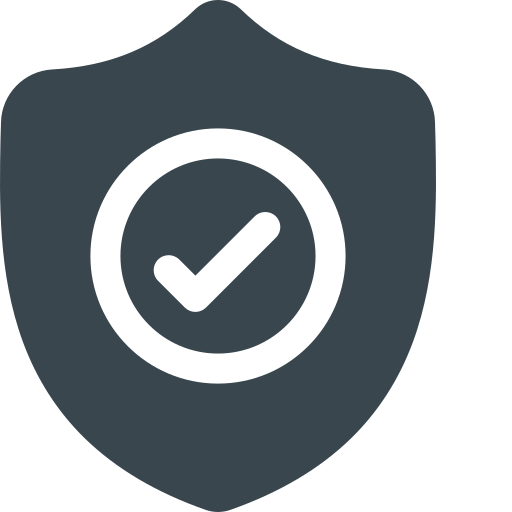
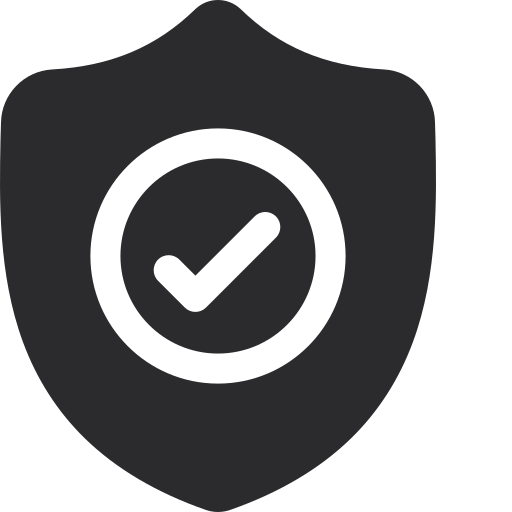
goals images

diff --git a/index.html b/index.html
@@ -113,32 +113,32 @@
 
                     <div style="display:flex">
                         <img  src="images/goals/data_collection.png" alt="" style="width:4em; height: 4em; margin-right: 2em; margin-top: 0.5em">
-                        <h2 style=" color: #39464e;font-size: 1.75rem">Data Collection and <br> Integration</h2>
+                        <h2 style=" color: #2b2b2e;font-size: 1.75rem">Data Collection and <br> Integration</h2>
                     </div>
                     <p style=" margin-bottom: 50px; margin-left: 6rem">Automated collection and integration of information on rare diseases from various sources.</p>
 
                     <div style="display:flex">
                         <img  src="images/goals/web_interface.png" alt="" style="width:4em; height: 4em; margin-right: 2em; margin-top: 0.5em">
-                        <h2 style=" color: #39464e;font-size: 1.75rem"> Web Interface for <br> Search</h2>
+                        <h2 style=" color: #2b2b2e;font-size: 1.75rem"> Web Interface for <br> Search</h2>
                     </div>
                     <p style=" margin-bottom: 50px; margin-left: 6rem">Intuitive interface for searching and exploring rare diseases in the platform’s catalog.</p>
                     
                     <div style="display:flex">
                         <img  src="images/goals/activity_monitor.png" alt="" style="width:4em; height: 4em; margin-right: 2em; margin-top: 0.5em">
-                        <h2 style=" color: #39464e;font-size: 1.75rem"> Activity <br> Monitoring</h2>
+                        <h2 style=" color: #2b2b2e;font-size: 1.75rem"> Activity <br> Monitoring</h2>
                     </div>
                     <p style=" margin-bottom: 50px; margin-left: 6rem">Continuous tracking of metric and activities for platform evaluation and improvement.
                     </p>
                     
                     <div style="display:flex">
                         <img  src="images/goals/protected.png" alt="" style="width:4em; height: 4em; margin-right: 2em; margin-top: 0.5em">
-                        <h2 style=" color: #39464e;font-size: 1.75rem"> Protected  <br> Backoffice</h2>
+                        <h2 style=" color: #2b2b2e;font-size: 1.75rem"> Protected  <br> Backoffice</h2>
                     </div>
                     <p style=" margin-bottom: 50px; margin-left: 6rem">Secure area for management and administration of the platform by authorized users.</p>
 
                     <div style="display:flex">
                         <img  src="images/goals/chatbot.png" alt="" style="width:4em; height: 4em; margin-right: 2em; margin-top: 0.5em">
-                        <h2 style=" color: #39464e;font-size: 1.75rem;">Conversational Search  <br> System</h2>
+                        <h2 style=" color: #2b2b2e;font-size: 1.75rem;">Conversational Search  <br> System</h2>
                     </div>
                     <p style="margin-left: 6rem"> Dynamic interaction with the platform through chatbot-like functionalities.
                         .</p>
